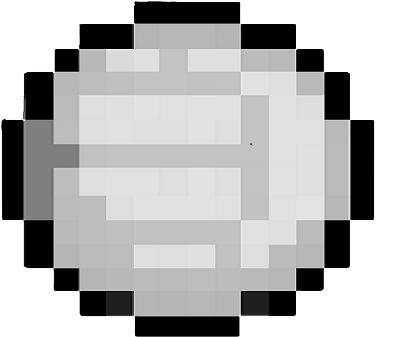
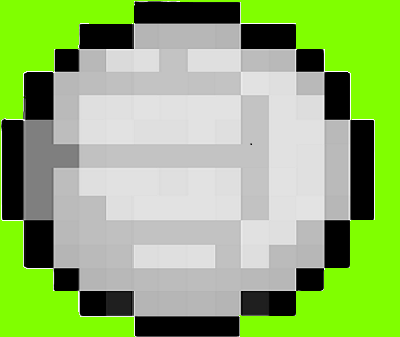
color verde a las pelotas

Changed region(s): [[0.45, 0.0, 1.0, 1.0], [0.0, 0.6528, 0.36, 1.0], [0.0, 0.0, 0.36, 0.3561]]

diff --git a/prueba.py b/prueba.py
@@ -4,7 +4,7 @@ import pygame,random
 class Player(pygame.sprite.Sprite):
     def __init__(self):
         super().__init__()
-        self.image = pygame.image.load("player.1.png").convert()
+        self.image = pygame.image.load("player_2.png").convert()
         self.image.set_colorkey(White)
         self.rect = self.image.get_rect()
         self.speed_x = 0
@@ -20,8 +20,8 @@ class Player(pygame.sprite.Sprite):
 class Pelota(pygame.sprite.Sprite):
     def __init__(self):
         super().__init__()
-        self.image = pygame.image.load("pelota_2.png").convert()
-        #self.image.set_colorkey(White)
+        self.image = pygame.image.load("pelota_5.png").convert()
+        self.image.set_colorkey(Verde)
         self.rect = self.image.get_rect()
 
     def update(self):
@@ -29,6 +29,7 @@ class Pelota(pygame.sprite.Sprite):
         
 Black = (0,0,0)
 White = (255,255,255)
+Verde = (128,255,0)
 pygame.init()
 screen = pygame.display.set_mode([844,508])
 fondo = pygame.image.load("fondo_final.png").convert()
